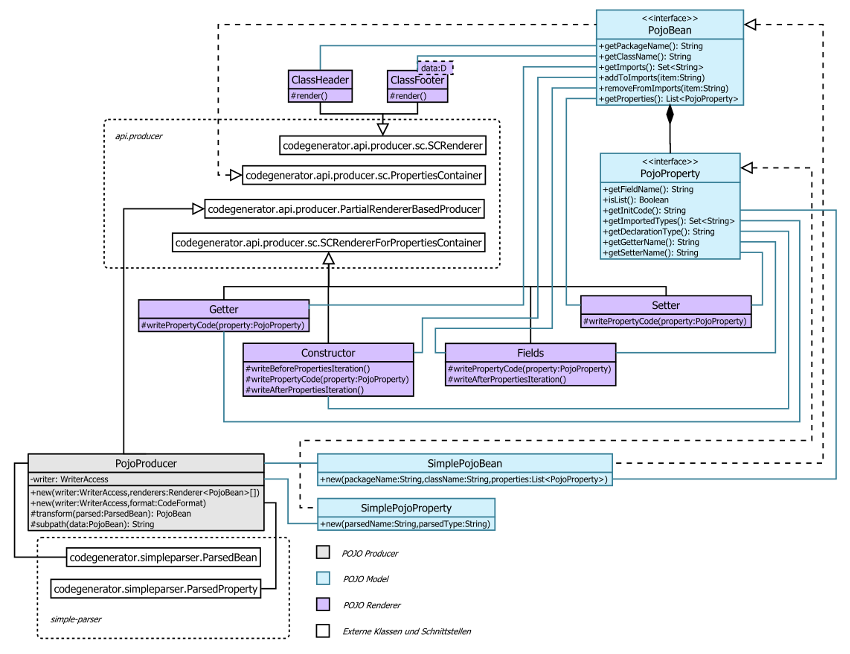
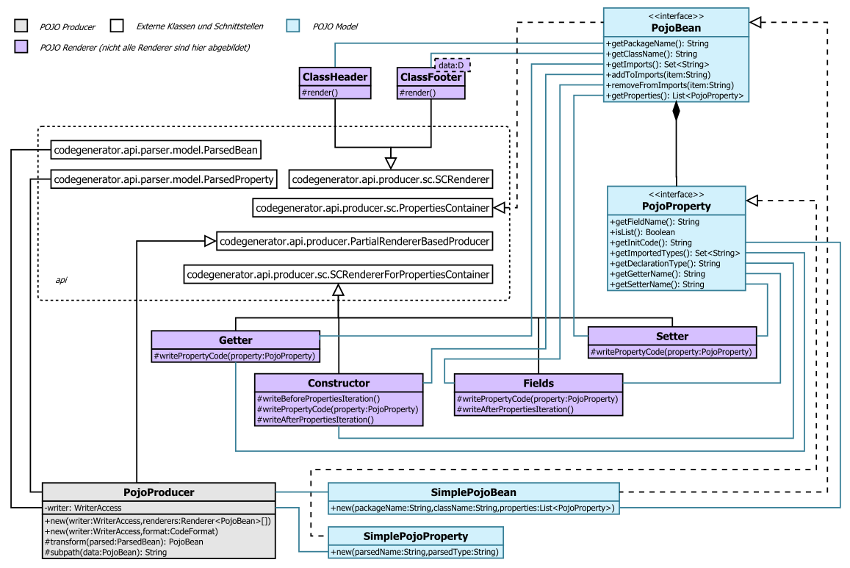
12: Refactor parser Update documentation
Task-Url:
http://github.com/sergej-samsonow/code-generator/issues/issue/12

diff --git a/api/README.md b/api/README.md
@@ -2,7 +2,8 @@ API Übersicht
 =============
 Haupt Schnittstellen [ProducerAccess][1] und [WriterAccess][2]. Für WriterAccess 
 werden zwei Implementierungen bereitgestellt [FileWriter][3] und [StdOutWriter][4]. 
-Producer Paket stellt eine weitere Schnittstelle [Renderer][5] bereit.
+Producer Paket stellt eine weitere Schnittstelle [Renderer][5] bereit. Aktuell 
+verfügbares Parsermodel wird durch [ParsedBean][13] und [ParsedProperty][14] abgebildet.
 
 ![Überblick](src/site/resources/api.png)
 
@@ -98,3 +99,5 @@ Properties Liste da.
 [10]: src/main/java/com/github/sergejsamsonow/codegenerator/api/producer/sc/SCRenderer.java
 [11]: src/main/java/com/github/sergejsamsonow/codegenerator/api/producer/sc/SCRendererForPropertiesContainer.java
 [12]: src/main/java/com/github/sergejsamsonow/codegenerator/api/producer/sc/PropertiesContainer.java
+[13]: src/main/java/com/github/sergejsamsonow/codegenerator/api/parser/model/ParsedBean.java
+[14]: src/main/java/com/github/sergejsamsonow/codegenerator/api/parser/model/ParsedProperty.java
